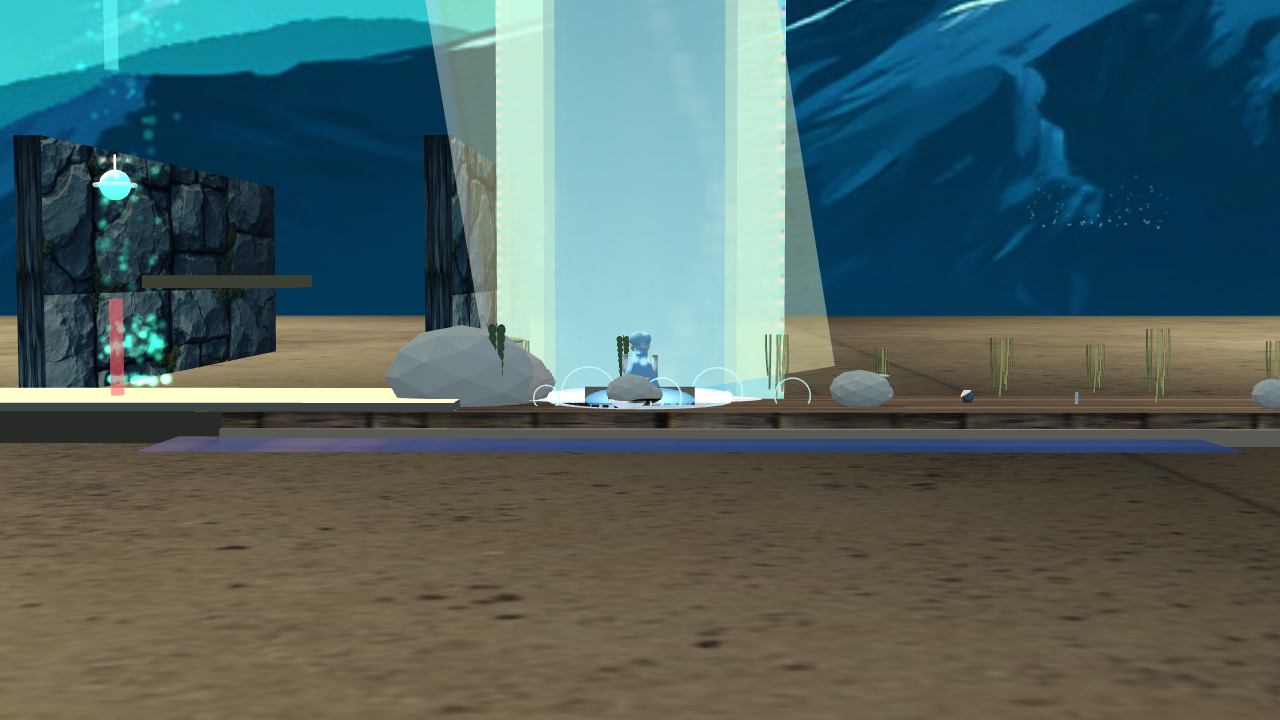
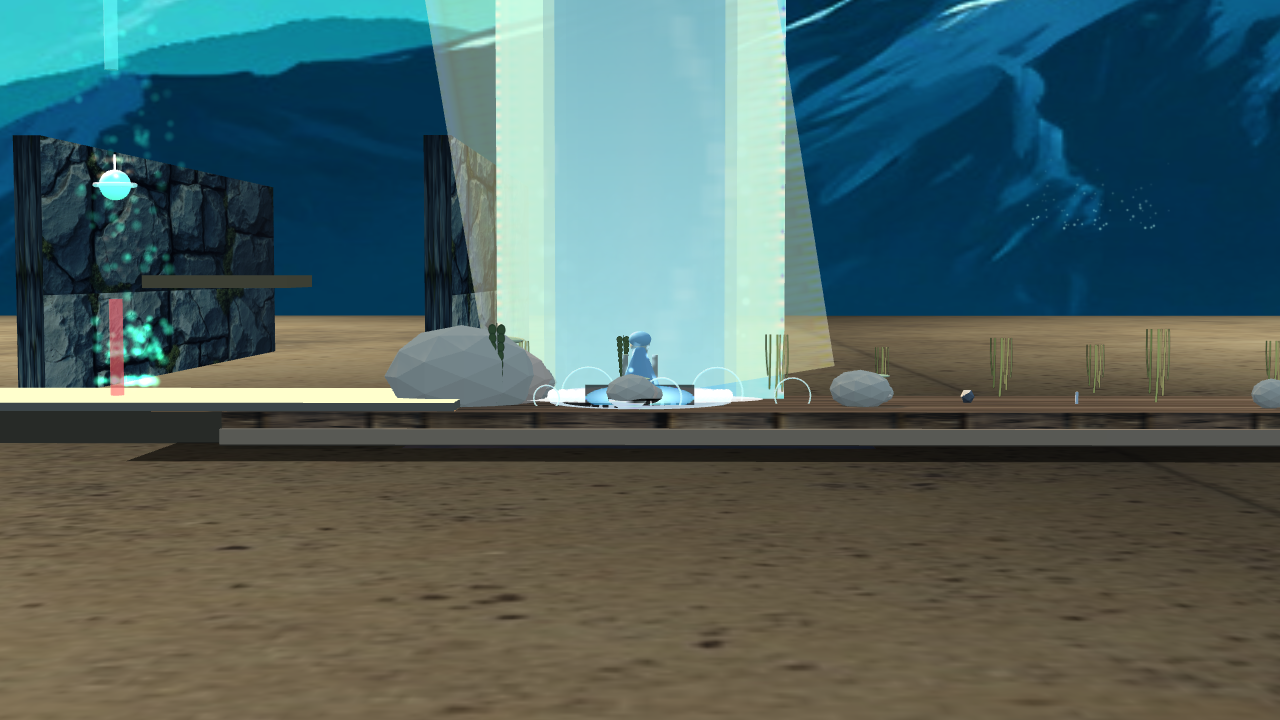
M0.7.1.5 Physica: lake puddle 10x7 (era 22x14 plano lateral -> blue band en e2-wide)

diff --git a/src/experiences/physica/scenes/cascadeScene.ts b/src/experiences/physica/scenes/cascadeScene.ts
@@ -599,17 +599,26 @@ export function buildCascadeScene(ctx: CascadeSceneContext): CascadeSceneEntitie
   waterTex.vScale = 0.6;
   textures.push(waterTex);
 
-  // Lago: plano translúcido más grande y reflectivo, ancla la cascada visualmente.
-  const lakeMat = makePbr('lago-translucido', PALETA.aguaProfunda, { alpha: 0.78, emissive: '#1a4a6a' });
+  // Lago: plano translúcido que ancla la cascada visualmente.
+  // M0.7.1.5 — el lake era 22x14 a y=-0.55 z=-2.0. En el e2-wide shot, el
+  // ángulo lateral lo mostraba como una banda azul delgada bajo el cornisa
+  // (el audit M0.7.1 lo marcó como "blue debug rectangle"). Después de
+  // probar bajarlo y agrandarlo (36x24 a y=-0.7), el problema empeoró
+  // porque el lago grande se ve como un "blue carpet" en el FG. Fix final:
+  // hacerlo un "puddle" pequeño (10x7) a la altura del ground, justo bajo
+  // la cascada, con alpha 0.55 (más translúcido). El puddle se ve sólo donde
+  // la cámara mira al área inmediata de la cascada, no como banda lateral.
+  const lakeMat = makePbr('lago-translucido', PALETA.aguaProfunda, { alpha: 0.55, emissive: '#1a4a6a' });
   lakeMat.albedoTexture = waterTex;
   lakeMat.emissiveTexture = waterTex;
   lakeMat.specularIntensity = 1.6;
   lakeMat.roughness = 0.25;
   lakeMat.metallic = 0.05;
-  const lake = mesh(BABYLON.MeshBuilder.CreatePlane('lago-base', { width: 22, height: 14 }, scene));
+  const lake = mesh(BABYLON.MeshBuilder.CreatePlane('lago-base', { width: 10, height: 7 }, scene));
   lake.material = lakeMat;
   lake.rotation.x = Math.PI / 2;
-  lake.position.set(9, -0.55, -2.0);
+  lake.position.set(10, -0.7, -0.5);
+  lake.applyFog = false;
 
   /* ============================================================
      8. CASCADA — 4 cintas con alpha-blend + niebla volumétrica
